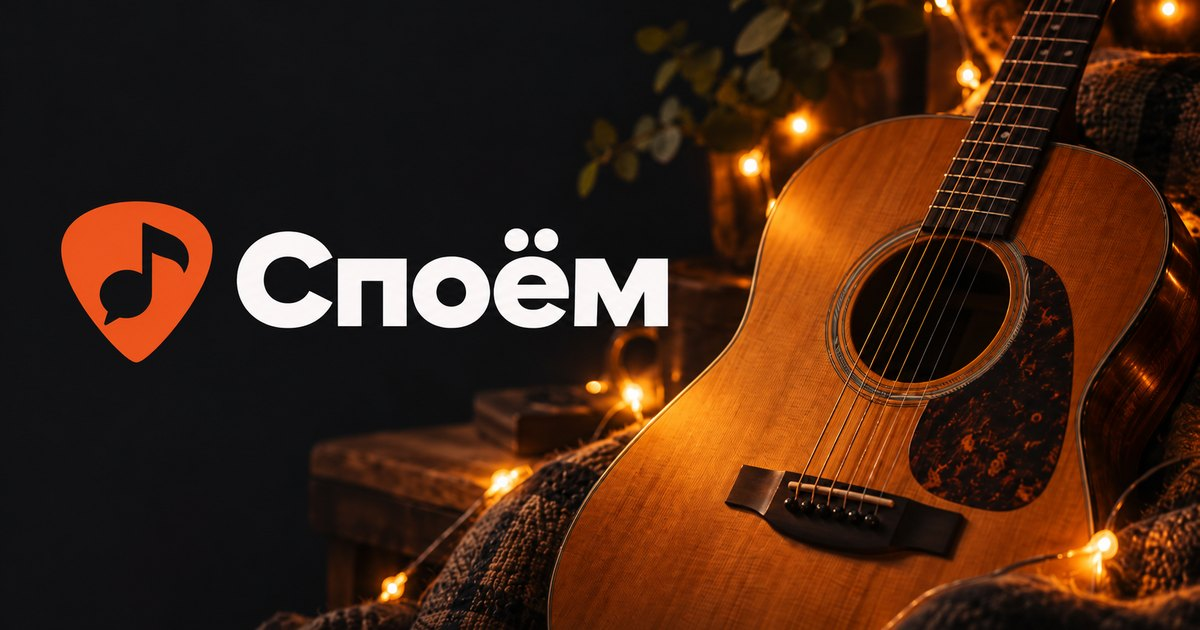
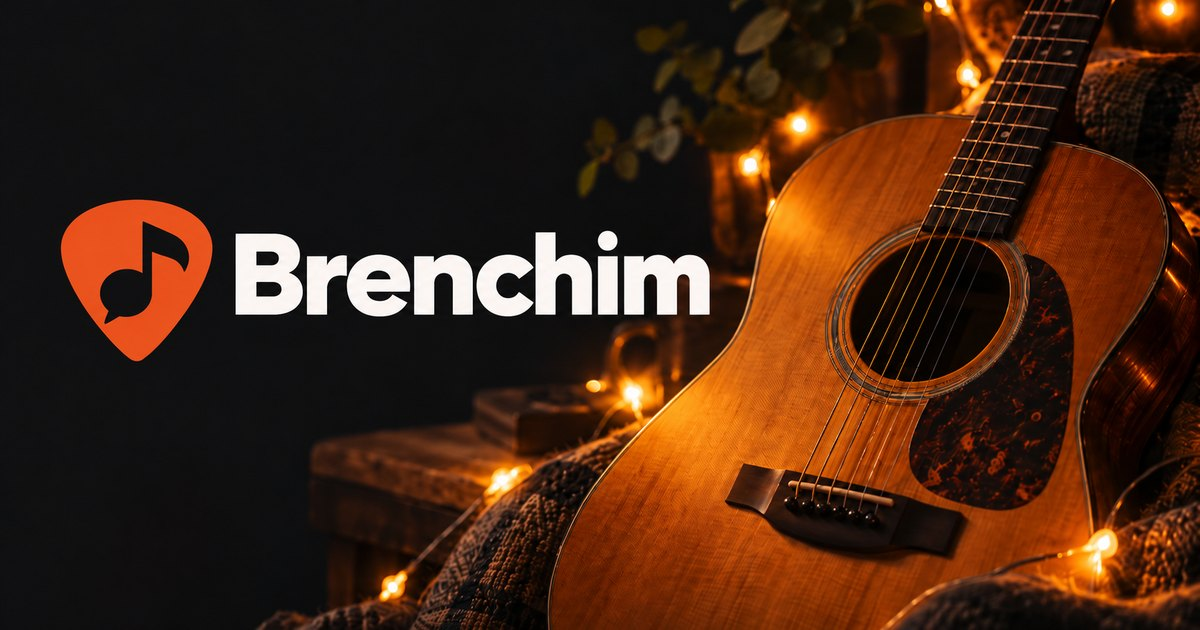
Название Brenchim латиницей, обложка с логотипом

diff --git a/site/index.html b/site/index.html
@@ -3,24 +3,24 @@
 <head>
 <meta charset="utf-8">
 <meta name="viewport" content="width=device-width, initial-scale=1, viewport-fit=cover">
-<title>Споём</title>
+<title>Brenchim</title>
 <meta name="description" content="Тексты и аккорды наших песен, сет на вечер, тюнер. Открыл — и поём.">
 <meta name="robots" content="noindex, nofollow">
 <meta name="theme-color" content="#F7F6F3" media="(prefers-color-scheme: light)">
 <meta name="theme-color" content="#111113" media="(prefers-color-scheme: dark)">
 
 <meta property="og:type" content="website">
-<meta property="og:site_name" content="Споём">
+<meta property="og:site_name" content="Brenchim">
 <meta property="og:locale" content="ru_RU">
-<meta property="og:title" content="Споём">
+<meta property="og:title" content="Brenchim">
 <meta property="og:description" content="Тексты и аккорды наших песен. Открыл — и поём.">
 <meta property="og:url" content="https://v-overkovskiy.github.io/brenchim/">
 <meta property="og:image" content="https://v-overkovskiy.github.io/brenchim/img/og.jpg">
 <meta property="og:image:width" content="1200">
 <meta property="og:image:height" content="630">
-<meta property="og:image:alt" content="Споём">
+<meta property="og:image:alt" content="Brenchim">
 <meta name="twitter:card" content="summary_large_image">
-<meta name="twitter:title" content="Споём">
+<meta name="twitter:title" content="Brenchim">
 <meta name="twitter:description" content="Тексты и аккорды наших песен. Открыл — и поём.">
 <meta name="twitter:image" content="https://v-overkovskiy.github.io/brenchim/img/og.jpg">
 

diff --git a/site/js/app.js b/site/js/app.js
@@ -96,7 +96,7 @@ async function needMe(reason) { return prefs.me && memberById(prefs.me) ? prefs.
 function topBar() {
   const me = memberById(prefs.me);
   return `<header class="top">
-    <a class="brand" href="#/"><img class="brand-logo" src="img/logo.png" alt="" width="40" height="40"><span><b>Споём</b></span></a>
+    <a class="brand" href="#/"><img class="brand-logo" src="img/logo.png" alt="" width="40" height="40"><span><b>Brenchim</b></span></a>
     <div class="top-actions">
       <button class="icon-btn" data-act="theme" aria-label="${isDark() ? 'Светлая тема' : 'Тёмная тема'}">${isDark() ? I.sun : I.moon}</button>
       <button class="me-btn" data-act="me" aria-label="${me ? 'Ты: ' + esc(me.name) + '. Сменить' : 'Кто ты?'}">${me ? ava(me, 38, 'ava-ring') : `<span class="icon-btn">${I.people}</span>`}</button>
@@ -637,7 +637,7 @@ function render() {
   $nav.querySelectorAll('a').forEach((a) => { const on = a.dataset.tab === tab; a.classList.toggle('on', on); if (on) a.setAttribute('aria-current', 'page'); else a.removeAttribute('aria-current'); });
   if (route.name === 'home') bindHome();
   const song = route.name === 'song' && db.songs.find((s) => s.id === route.id);
-  document.title = song ? `${song.title}${song.artist ? ' — ' + song.artist : ''} · Споём` : 'Споём';
+  document.title = song ? `${song.title}${song.artist ? ' — ' + song.artist : ''} · Brenchim` : 'Brenchim';
 }
 
 function onRoute() {

diff --git a/site/sw.js b/site/sw.js
@@ -1,5 +1,5 @@
 // Офлайн: оболочка сайта из кэша, данные песен приложение само хранит в localStorage.
-const CACHE = 'spoem-v2';
+const CACHE = 'brenchim-v3';
 const SHELL = ['./', 'index.html', 'css/app.css', 'js/app.js', 'js/store.js', 'js/chords.js', 'js/importers.js', 'js/members.js', 'js/tuner.js','js/config.js', 'img/logo.png', 'manifest.webmanifest'];
 
 self.addEventListener('install', (e) => {

diff --git a/README.md b/README.md
@@ -1,4 +1,4 @@
-# Споём
+# Brenchim
 
 Песенник нашей компании для встреч: тексты и аккорды, сет на вечер, топ компании, видео с YouTube и тюнер.
 
